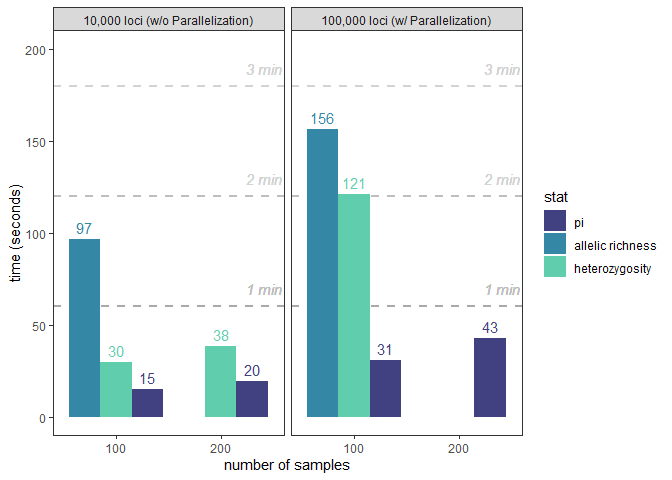
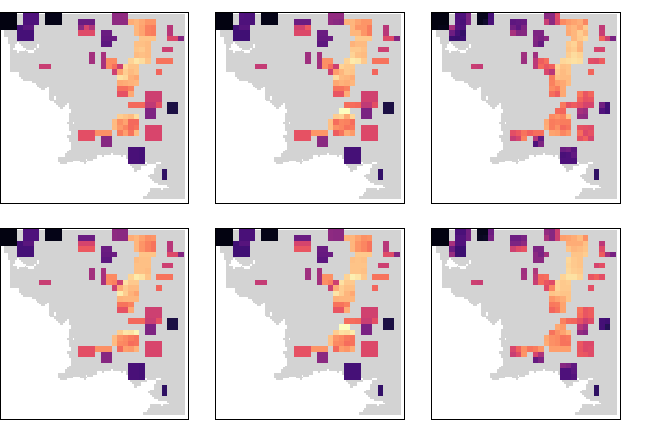
update simex_notebook

diff --git a/paperex/simex/simex_notebook.md b/paperex/simex/simex_notebook.md
@@ -58,7 +58,7 @@ plot(lyr, col = viridis::magma(100), main = "Carrying Capacity/Conductance", axe
 ![](simex_notebook_files/figure-gfm/unnamed-chunk-3-1.png)<!-- -->
 
 ``` r
-plot(kde, col = viridis::magma(10), main = "Population Density", axes = FALSE, box = FALSE)
+plot(kde, col = viridis::magma(100), main = "Population Density", axes = FALSE, box = FALSE)
 ```
 
 ![](simex_notebook_files/figure-gfm/unnamed-chunk-3-2.png)<!-- -->
@@ -78,6 +78,71 @@ legend(0,-80,
 
 ![](simex_notebook_files/figure-gfm/unnamed-chunk-3-3.png)<!-- -->
 
+``` r
+set.seed(42)
+
+# run moving window
+wg <- window_gd(subvcf, 
+                subcoords, 
+                lyr, 
+                stat = "pi", 
+                rarify = TRUE, 
+                wdim = 3, 
+                fact = 3, 
+                rarify_n = 2, 
+                rarify_nit = 5, 
+                parallel = FALSE)
+
+# krig results
+kg <- krig_gd(wg, lyr, index = 1, disagg_grd = 2)
+```
+
+    ## [using ordinary kriging]
+
+``` r
+kc <- krig_gd(wg, lyr, index = 2, agg_r = 2, disagg_grd = 2)
+```
+
+    ## [using ordinary kriging]
+
+``` r
+# replace values less than 0 in kriged plots
+kc[kc < 0] <- 0
+kg[kg < 0] <- 0
+
+# mask areas with less than one count
+mg <- mask_gd(kg, kc, minval = 1)
+
+par(mar = rep(0,4))
+plot_gd(wg, bkg, zlim = c(0, 0.30))
+```
+
+![](simex_notebook_files/figure-gfm/unnamed-chunk-4-1.png)<!-- -->
+
+``` r
+plot_count(wg, zlim = c(0,12))
+```
+
+![](simex_notebook_files/figure-gfm/unnamed-chunk-4-2.png)<!-- -->
+
+``` r
+plot_gd(kg, zlim = c(0, 0.30))
+```
+
+![](simex_notebook_files/figure-gfm/unnamed-chunk-4-3.png)<!-- -->
+
+``` r
+plot_count(kc, zlim = c(0,12))
+```
+
+![](simex_notebook_files/figure-gfm/unnamed-chunk-4-4.png)<!-- -->
+
+``` r
+plot_gd(mg, bkg,zlim = c(0, 0.30))
+```
+
+![](simex_notebook_files/figure-gfm/unnamed-chunk-4-5.png)<!-- -->
+
 ### Figure \#X: Window vs Aggregation Factor
 
 ``` r
@@ -89,7 +154,7 @@ par(mfrow = c(3, 3), mar = rep(0, 4), oma = rep(0, 4), pty = "s")
 purrr::walk(stk, test_simex_plot, bkg = bkg)
 ```
 
-![](simex_notebook_files/figure-gfm/unnamed-chunk-4-1.png)<!-- -->
+![](simex_notebook_files/figure-gfm/unnamed-chunk-5-1.png)<!-- -->
 
 ## Figure 3 & Figure 1S: Comparison of datasets, statistics, and sample sizes
 
@@ -109,18 +174,18 @@ stk100 <- purrr::map(params, test_datasets_simex, nsamp = 100, msk_lyr = msk_lyr
 stk200 <- purrr::map(params, test_datasets_simex, nsamp = 200, msk_lyr = msk_lyr200)
 
 # Plot results (note: legends are fixed to the same scale)
-par(mfrow = c(2, 3), mar = rep(0, 4), oma = rep(0, 4), pty = "s")
+par(mfrow = c(2, 3), mar = c(1, 0, 1, 0), oma = rep(0, 4))
 purrr::walk(stk100, test_simex_plot, bkg = bkg, legend = FALSE)
 ```
 
-![](simex_notebook_files/figure-gfm/unnamed-chunk-5-1.png)<!-- -->![](simex_notebook_files/figure-gfm/unnamed-chunk-5-2.png)<!-- -->![](simex_notebook_files/figure-gfm/unnamed-chunk-5-3.png)<!-- -->
+![](simex_notebook_files/figure-gfm/unnamed-chunk-6-1.png)<!-- -->![](simex_notebook_files/figure-gfm/unnamed-chunk-6-2.png)<!-- -->![](simex_notebook_files/figure-gfm/unnamed-chunk-6-3.png)<!-- -->
 
 ``` r
-par(mfrow = c(2, 3), mar = c(1, 0, 1, 0), oma = rep(0, 4), pty = "s")
+par(mfrow = c(2, 3), mar = c(1, 0, 1, 0), oma = rep(0, 4))
 purrr::walk(stk200, test_simex_plot, bkg = bkg, legend = FALSE)
 ```
 
-![](simex_notebook_files/figure-gfm/unnamed-chunk-5-4.png)<!-- -->![](simex_notebook_files/figure-gfm/unnamed-chunk-5-5.png)<!-- -->![](simex_notebook_files/figure-gfm/unnamed-chunk-5-6.png)<!-- -->
+![](simex_notebook_files/figure-gfm/unnamed-chunk-6-4.png)<!-- -->![](simex_notebook_files/figure-gfm/unnamed-chunk-6-5.png)<!-- -->![](simex_notebook_files/figure-gfm/unnamed-chunk-6-6.png)<!-- -->
 
 ## Figure \#X: Timing
 
@@ -140,10 +205,10 @@ tdf[tdf$dataset == "WGS", "dataset"] <- "100,000 loci (w/ Parallelization)"
 ggplot(data = tdf, aes(x = factor(nsamp), y = time, fill = stat)) +
   geom_hline(yintercept = 60, linetype = "dashed", col = "darkgray", lwd = 1) + 
   geom_text(aes(factor(200), 60, label = "1 min", vjust = -1, hjust = -0.7), col = "gray", fontface = "italic") +
-  geom_hline(yintercept = 120, linetype = "dashed", col = "gray", lwd = 1) + 
-  geom_text(aes(factor(200), 120, label = "2 min", vjust = -1, hjust = -0.7), col = "lightgray", fontface = "italic") +
-  geom_hline(yintercept = 180, linetype = "dashed", col = "lightgray", lwd = 1) + 
-  geom_text(aes(factor(200), 180, label = "3 min", vjust = -1, hjust = -0.7), col = "lightgray", fontface = "italic") +
+  geom_hline(yintercept = 60*3, linetype = "dashed", col = "gray", lwd = 1) + 
+  geom_text(aes(factor(200), 60*3, label = "3 min", vjust = -1, hjust = -0.7), col = "lightgray", fontface = "italic") +
+  geom_hline(yintercept = 60*6, linetype = "dashed", col = "lightgray", lwd = 1) + 
+  geom_text(aes(factor(200), 60*6, label = "6 min", vjust = -1, hjust = -0.7), col = "lightgray", fontface = "italic") +
   geom_col(position=position_dodge()) +
   geom_text(aes(label = round(time, 0), col = stat), 
             vjust = -0.5, position=position_dodge(width = .9)) + 
@@ -157,7 +222,7 @@ ggplot(data = tdf, aes(x = factor(nsamp), y = time, fill = stat)) +
   facet_grid(~dataset,  scales = "free_y") +
   xlab("number of samples") +
   ylab("time (seconds)") +
-  ylim(0,200) +
+  ylim(0,400) +
   theme_bw() +
   theme(panel.grid.minor.y = element_blank(), 
         panel.grid.major.y = element_blank(),
@@ -165,4 +230,4 @@ ggplot(data = tdf, aes(x = factor(nsamp), y = time, fill = stat)) +
         panel.grid.major.x = element_blank())
 ```
 
-![](simex_notebook_files/figure-gfm/unnamed-chunk-6-1.png)<!-- -->
+![](simex_notebook_files/figure-gfm/unnamed-chunk-7-1.png)<!-- -->
